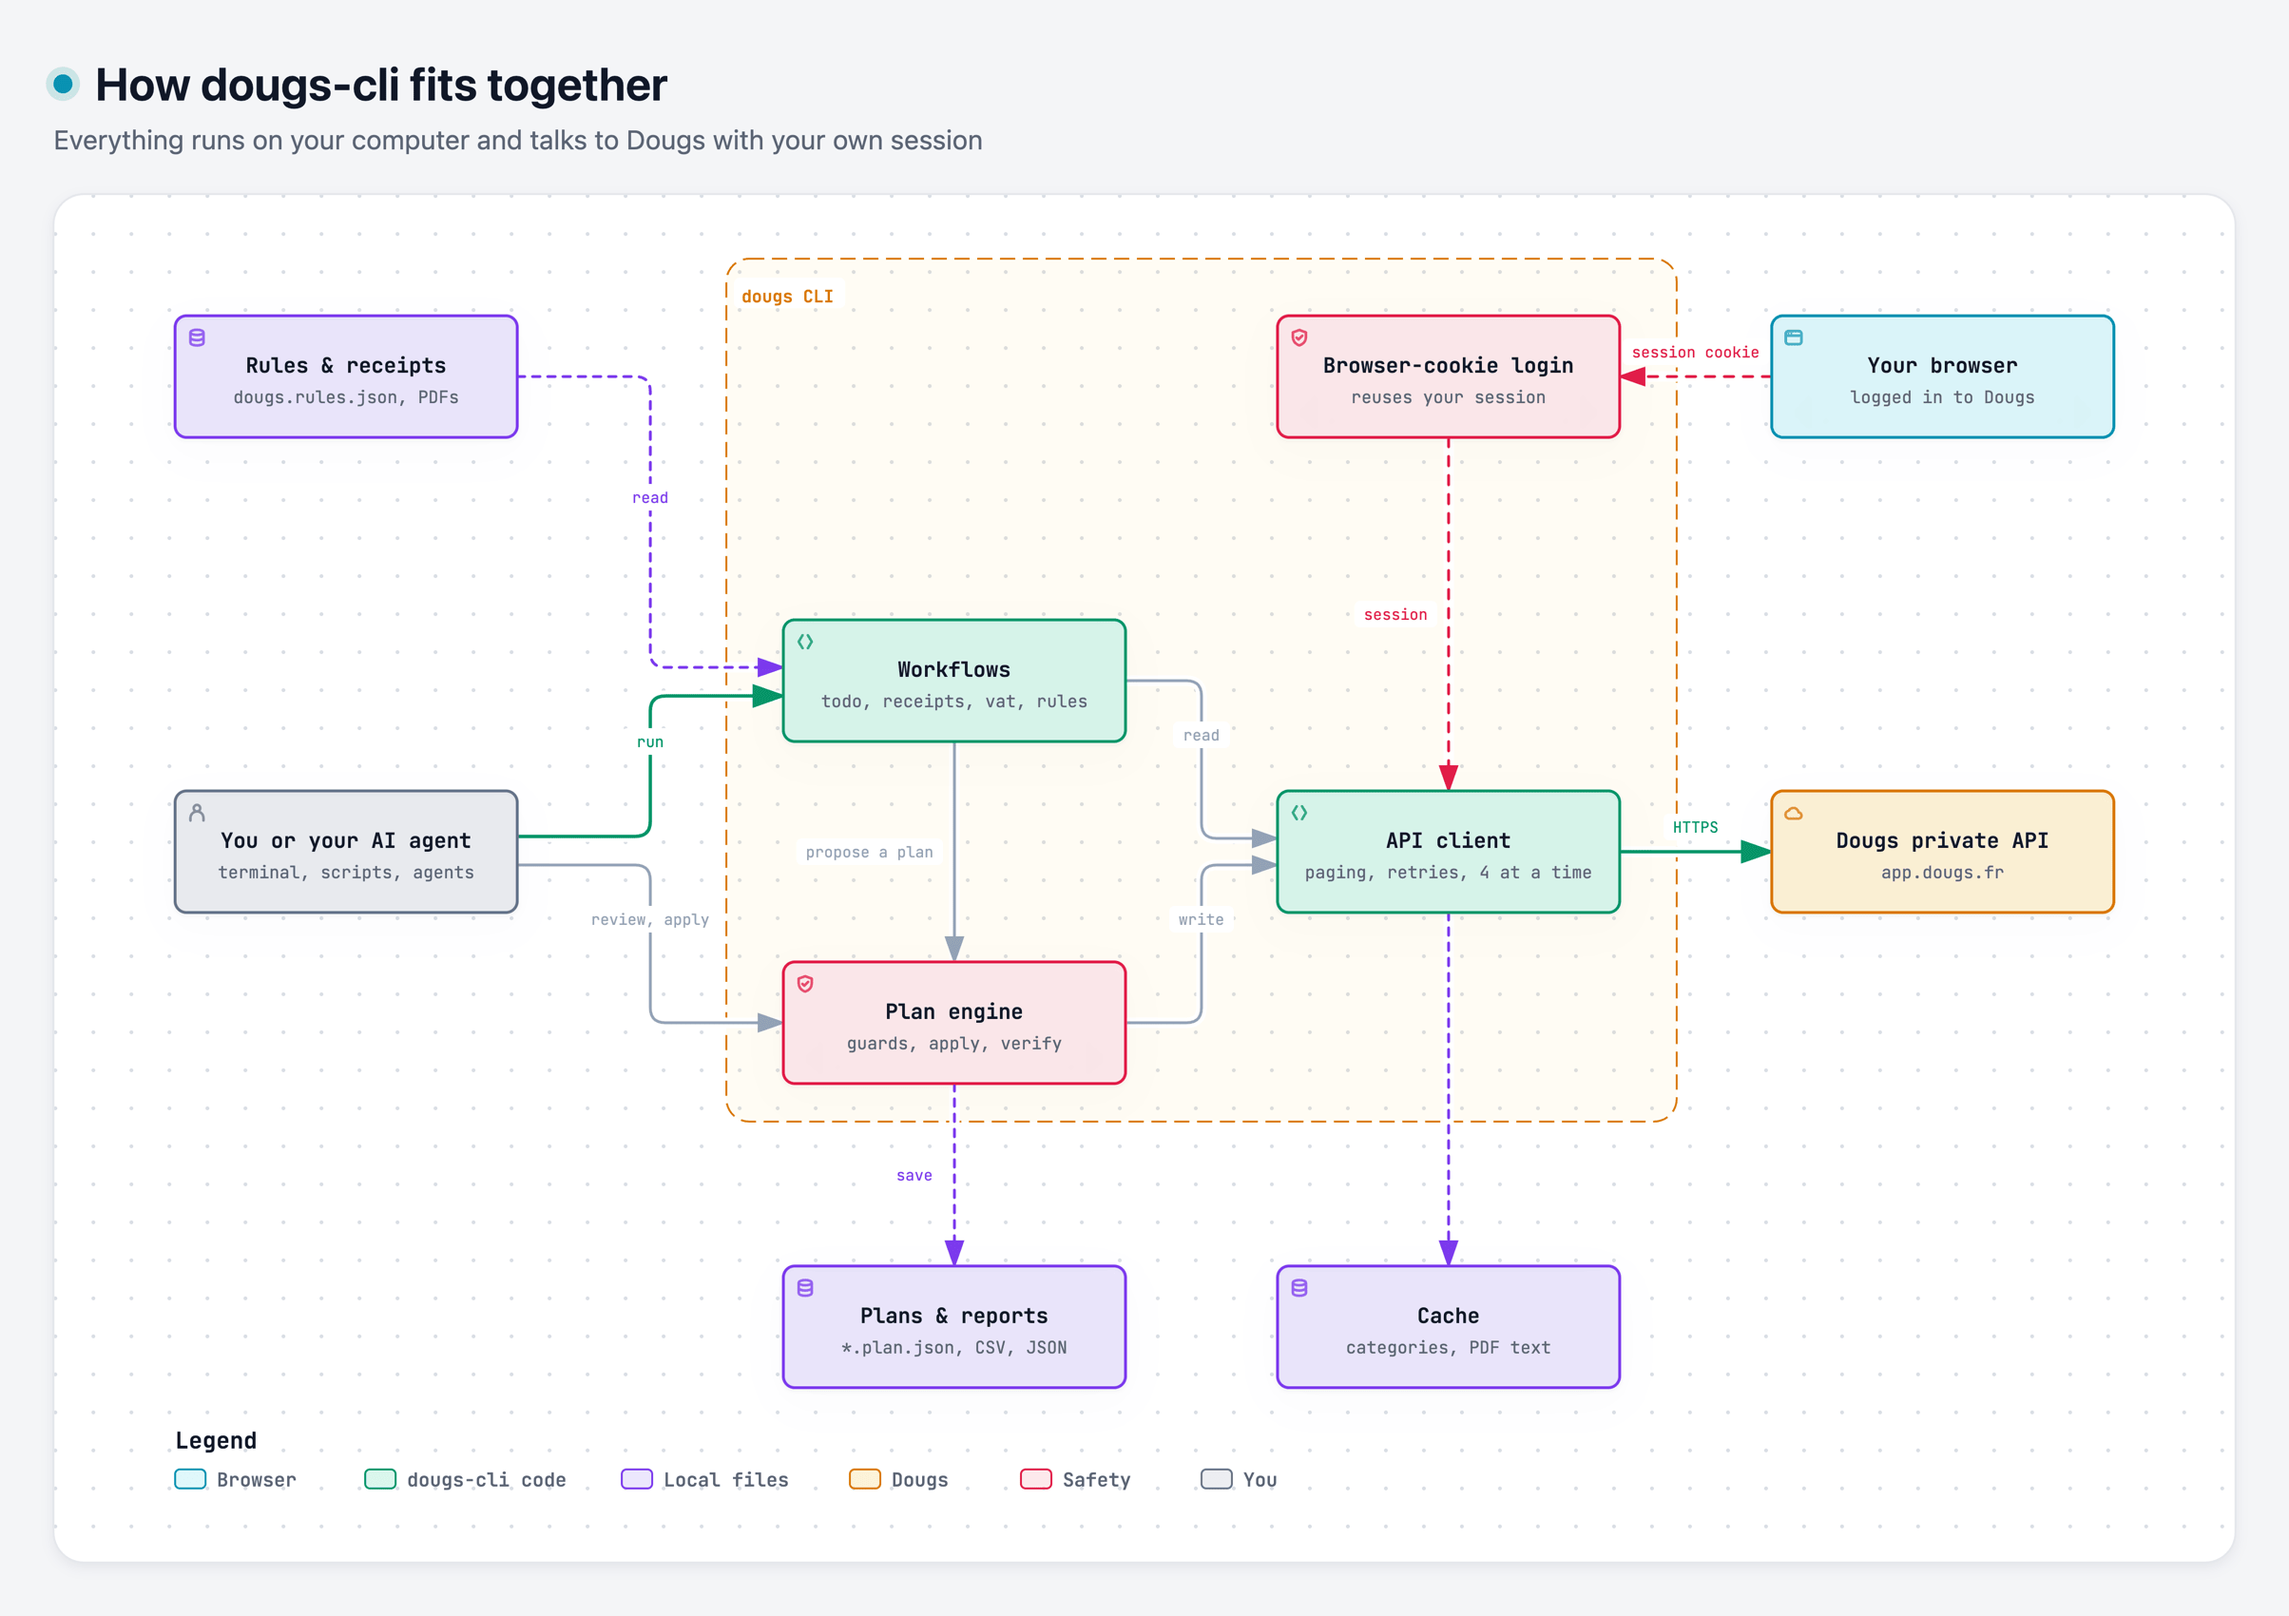
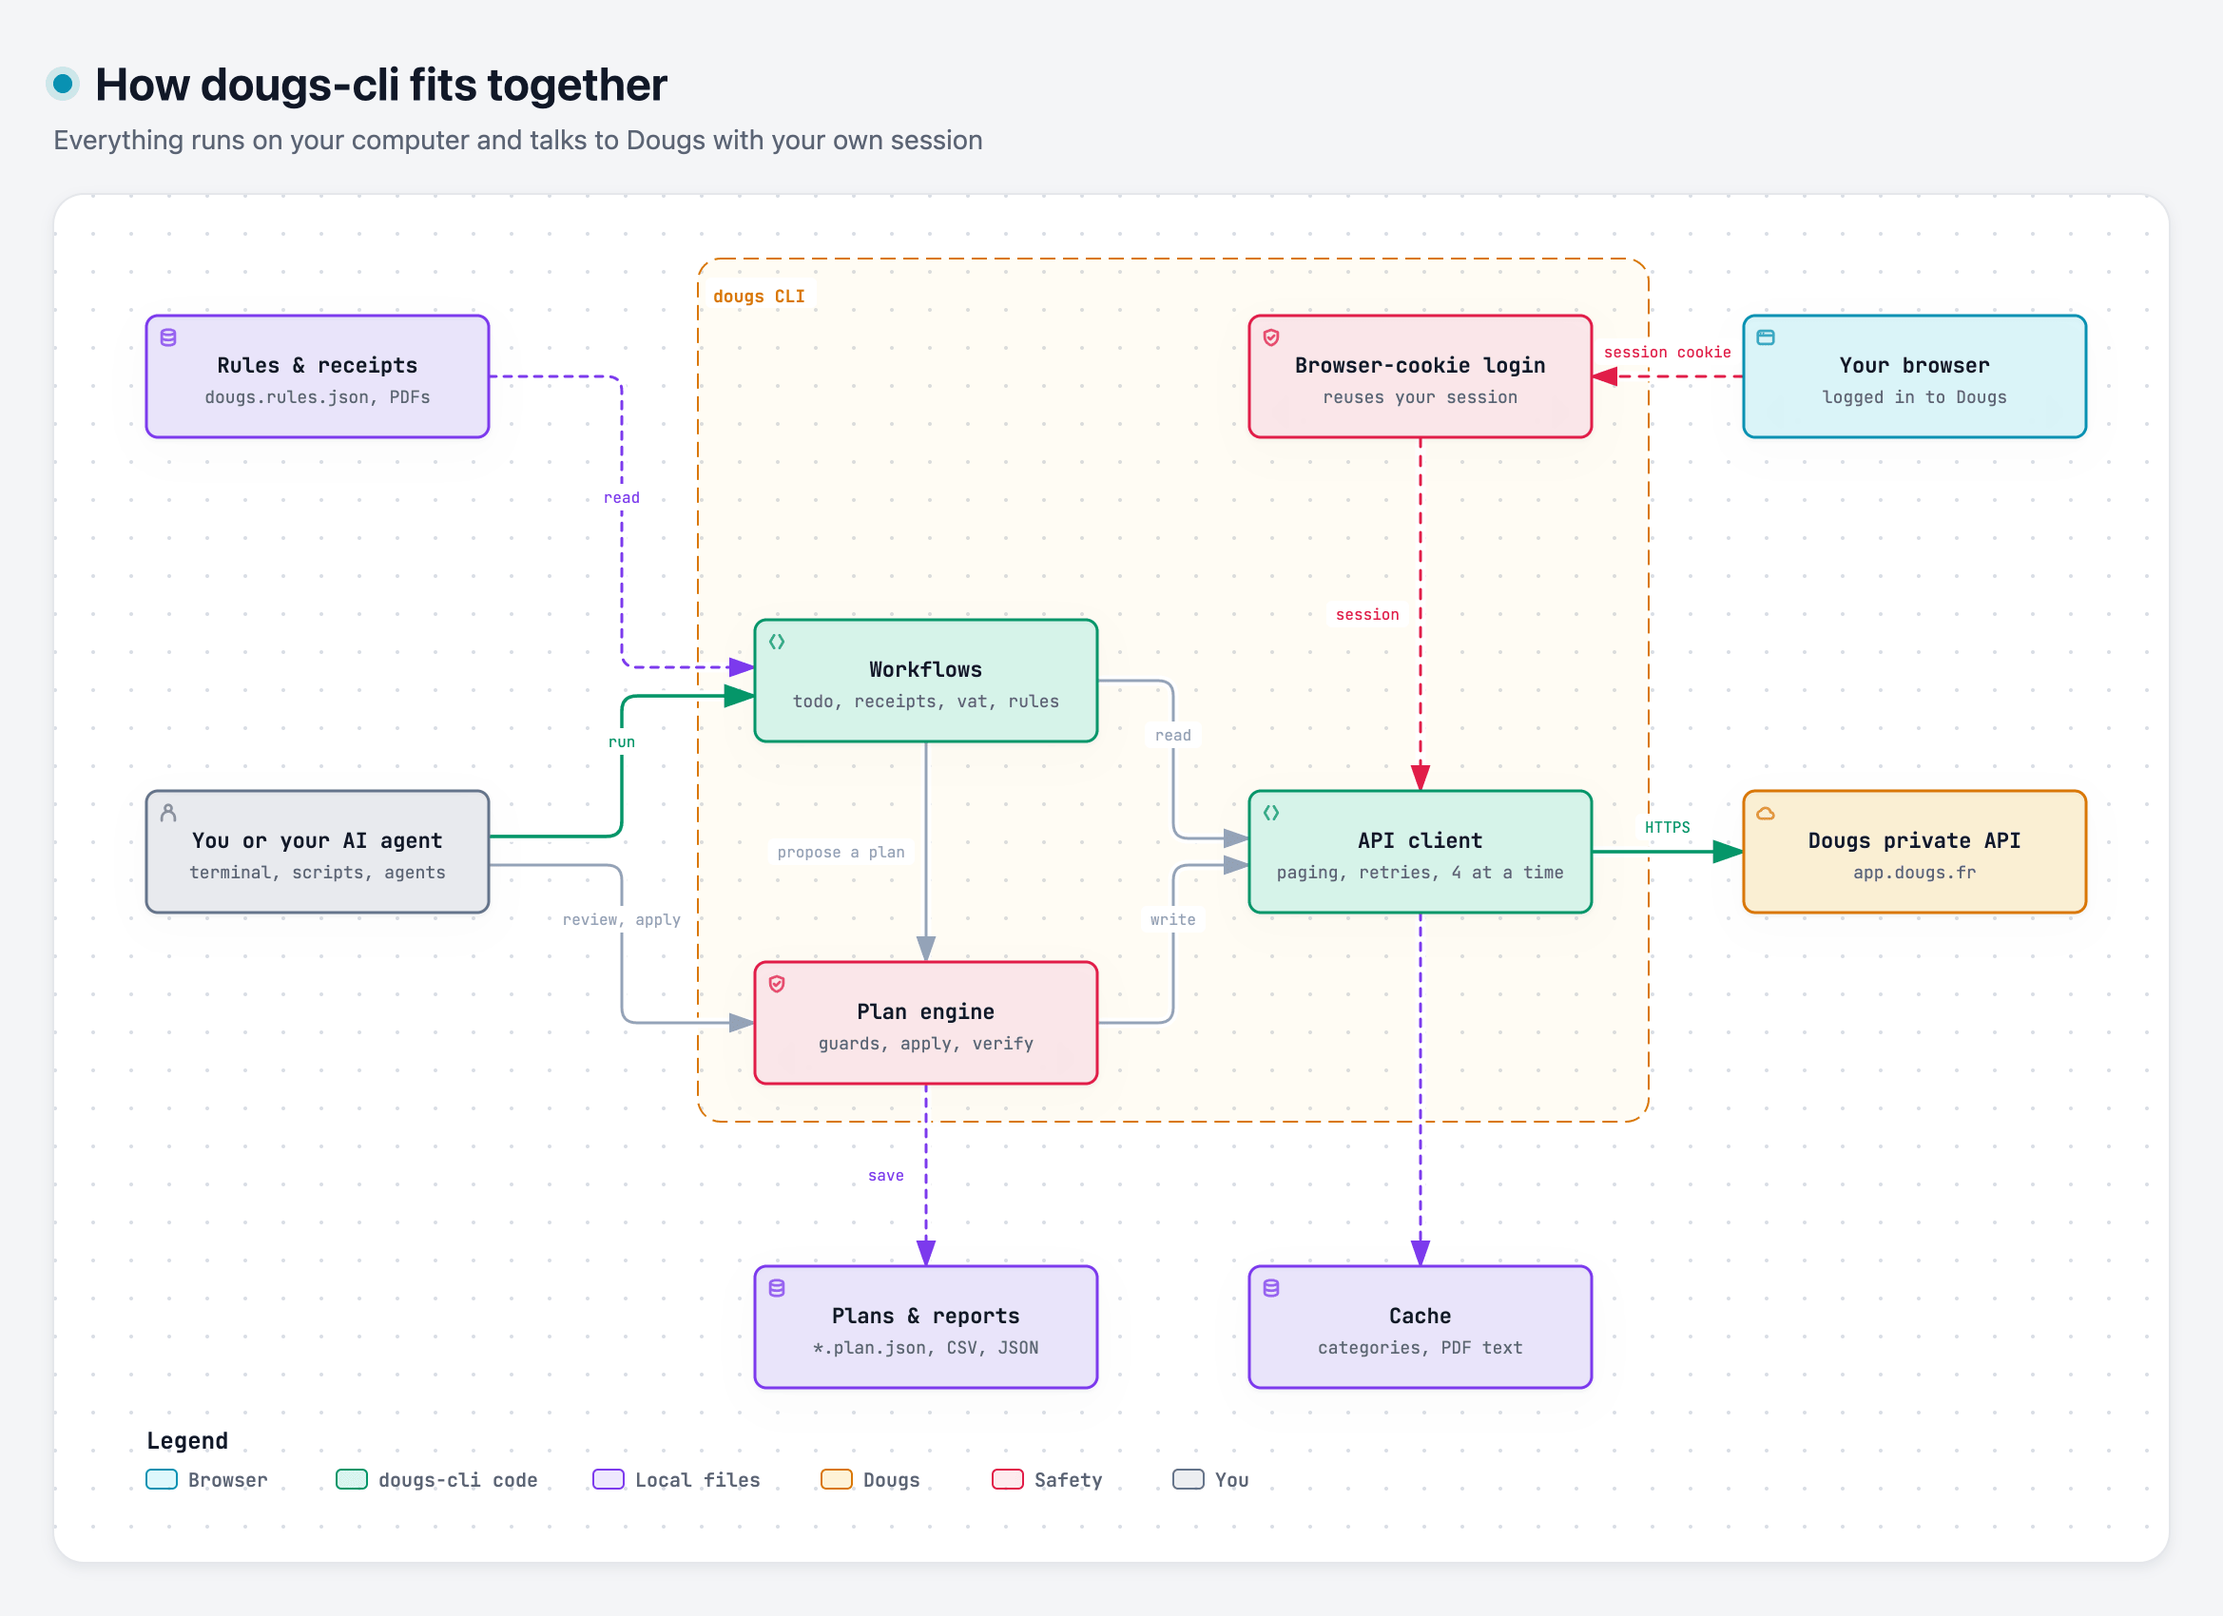
Trim diagram margins and add npm run diagrams
The build script renders each docs/diagrams source with archify, exports light
and dark PNGs fitted to the drawn content at 2x.

diff --git a/docs/diagrams/README.md b/docs/diagrams/README.md
@@ -10,19 +10,18 @@ sources. Labels are generic: never put real company data in them.
 | `safety-loop.json` | `workflow` | `safety-loop-{light,dark}.png` |
 | `write-sequence.json` | `sequence` | `write-sequence-{light,dark}.png` |
 
-To change one:
+To change one, edit its source and re-render:
 
-1. Clone archify anywhere outside this repo (nothing to install; it needs Node and a Chrome-based
-   browser for its checks, overridable with `ARCHIFY_CHROME=<path>`).
-2. Edit the source, then render and check it:
+```sh
+git clone https://github.com/tt-a1i/archify /tmp/archify     # anywhere outside this repo; nothing to install
+npm install --no-save playwright-core
+ARCHIFY_DIR=/tmp/archify/archify CHROME=<chromium binary> npm run diagrams -- safety-loop
+pngquant --quality 85-98 --ext .png --force docs/images/*.png
+```
 
-   ```sh
-   node <archify>/bin/archify.mjs finalize <type> docs/diagrams/<name>.json /tmp/<name>.html --quality showcase
-   ```
-
-3. Open `/tmp/<name>.html?theme=light` and `?theme=dark`, export each as PNG from the viewer's
-   Export menu, and save them as `docs/images/<name>-light.png` and `<name>-dark.png`, resized to
-   half the exported width (archify exports at 4x; the README uses 2x).
+`build.mjs` runs archify's `finalize` (schema, layout and browser checks, failing on any warning),
+then exports a light and a dark PNG through archify's own exporter, trimmed to the drawn content
+and at 2x. Without `CHROME` it uses Playwright's Chromium (`npx playwright-core install chromium`).
 
 The README links the images by absolute `raw.githubusercontent.com` URLs so they also show on
 npmjs.com, which may ignore `<picture>`: the light PNG is the fallback and has an opaque
